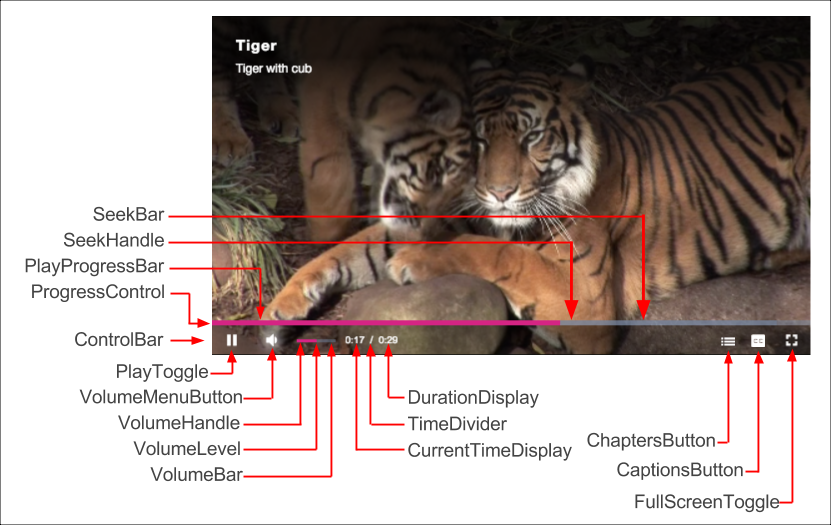
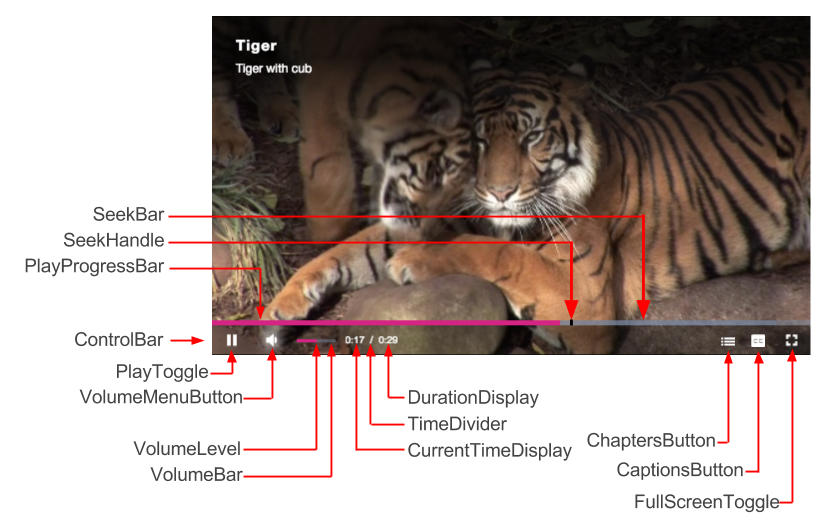
Update selectors and image maps in Customization doc

diff --git a/en/perform/brightcove-player/guides/customize-appearance.html b/en/perform/brightcove-player/guides/customize-appearance.html
@@ -260,19 +260,20 @@
         <area shape="rect" coords="69,17,169,42" href="javascript:BCLS.showSelector('DockTitle','onload')" alt="DockTitle" title=".vjs-dock-title">
         </map>
         <map name="5x-components">
-        <area shape="rect" coords="404,413,526,436" href="javascript:BCLS.showSelector('TimeDivider', 'play')" alt="TimeDivider" title=".video-js .vjs-time-divider">
-        <area shape="rect" coords="128,436,240,460" href="javascript:BCLS.showSelector('VolumeLevel', 'play')" alt="VolumeLevel" title=".video-js .vjs-volume-level">
-        <area shape="rect" coords="75,384,246,405" href="javascript:BCLS.showSelector('VolumeMenuButton', 'play')" alt="VolumeMenuButton" title=".video-js .vjs-volume-menu-button">
-        <area shape="rect" coords="146,461,242,487" href="javascript:BCLS.showSelector('VolumeBar', 'play')" alt="VolumeBar" title=".vjs-volume-bar.vjs-slider-bar.vjs-slider.vjs-slider-horizontal">
-        <area shape="rect" coords="405,386,542,410" href="javascript:BCLS.showSelector('DurationDisplay', 'play')" alt="DurationDisplay" title=".video-js .vjs-duration">
-        <area shape="rect" coords="402,437,575,465" href="javascript:BCLS.showSelector('CurrentTimeDisplay', 'play')" alt="CurrentTimeDisplay" title=".video-js .vjs-current-time">
-        <area shape="rect" coords="583,427,722,453" href="javascript:BCLS.showSelector('ChaptersButton', 'play')" alt="ChaptersButton" title=".video-js .vjs-chapters-button.vjs-menu-button">
-        <area shape="rect" coords="613,455,747,483" href="javascript:BCLS.showSelector('CaptionsButton', 'play')" alt="CaptionsButton" title=".video-js .vjs-captions-button.vjs-menu-button">
-        <area shape="rect" coords="628,488,785,515" href="javascript:BCLS.showSelector('FullScreenToggle', 'play')" alt="FullScreenToggle" title=".video-js .vjs-fullscreen-control.vjs-control">
-        <area shape="rect" coords="22,250,172,278" href="javascript:BCLS.showSelector('PlayProgressBar','play')" alt="PlayProgressBar" title=".video-js .vjs-play-progress.vjs-slider-ba">
-        <area shape="rect" coords="110,358,216,381" href="javascript:BCLS.showSelector('PlayToggle', 'play')" alt="PlayToggle" title=".video-js .vjs-play-control">
-        <area shape="rect" coords="87,201,169,226" href="javascript:BCLS.showSelector('SeekBar','play')" alt="SeekBar" title=".video-js .vjs-progress-control.vjs-control">
-        <area shape="rect" coords="67,325,212,353" href="javascript:BCLS.showSelector('ControlBar')" alt="ControlBar" title=".video-js .vjs-control-bar">
+        <area shape="rect" coords="396,398,510,420" href="javascript:BCLS.showSelector('TimeDivider', 'play')" alt="TimeDivider" title=".video-js .vjs-time-divider">
+        <area shape="rect" coords="128,421,240,444" href="javascript:BCLS.showSelector('VolumeLevel', 'play')" alt="VolumeLevel" title=".video-js .vjs-volume-level">
+        <area shape="rect" coords="75,374,246,395" href="javascript:BCLS.showSelector('VolumeMenuButton', 'play')" alt="VolumeMenuButton" title=".video-js .vjs-volume-menu-button">
+        <area shape="rect" coords="146,447,242,473" href="javascript:BCLS.showSelector('VolumeBar', 'play')" alt="VolumeBar" title=".vjs-volume-bar.vjs-slider-bar.vjs-slider.vjs-slider-horizontal">
+        <area shape="rect" coords="395,373,532,397" href="javascript:BCLS.showSelector('DurationDisplay', 'play')" alt="DurationDisplay" title=".video-js .vjs-duration">
+        <area shape="rect" coords="391,423,564,448" href="javascript:BCLS.showSelector('CurrentTimeDisplay', 'play')" alt="CurrentTimeDisplay" title=".video-js .vjs-current-time">
+        <area shape="rect" coords="569,412,708,438" href="javascript:BCLS.showSelector('ChaptersButton', 'play')" alt="ChaptersButton" title=".video-js .vjs-chapters-button.vjs-menu-button">
+        <area shape="rect" coords="595,442,729,469" href="javascript:BCLS.showSelector('CaptionsButton', 'play')" alt="CaptionsButton" title=".video-js .vjs-captions-button.vjs-menu-button">
+        <area shape="rect" coords="611,473,768,500" href="javascript:BCLS.showSelector('FullScreenToggle', 'play')" alt="FullScreenToggle" title=".video-js .vjs-fullscreen-control.vjs-control">
+        <area shape="rect" coords="22,243,172,271" href="javascript:BCLS.showSelector('PlayProgressBar','play')" alt="PlayProgressBar" title=".video-js .vjs-play-progress.vjs-slider-ba">
+        <area shape="rect" coords="110,348,216,371" href="javascript:BCLS.showSelector('PlayToggle', 'play')" alt="PlayToggle" title=".video-js .vjs-play-control">
+        <area shape="rect" coords="87,193,169,219" href="javascript:BCLS.showSelector('SeekBar','play')" alt="SeekBar" title=".video-js .vjs-progress-control.vjs-control">
+        <area shape="rect" coords="55,220,169,245" href="javascript:BCLS.showSelector('SeekHandle','play')" alt="SeekHandle" title=".video-js .vjs-control-bar .vjs-mouse-display">
+        <area shape="rect" coords="67,315,212,343" href="javascript:BCLS.showSelector('ControlBar','play')" alt="ControlBar" title=".video-js .vjs-control-bar">
         </map>
         <h3>Summary of component selectors</h3>
         <table class="table-styles">
@@ -408,6 +409,8 @@
                 ".video-js .vjs-duration",
                 "SeekBar":
                 ".video-js .vjs-progress-control.vjs-control",
+                "SeekHandle":
+                ".video-js .vjs-control-bar .vjs-mouse-display",
                 "PlayProgressBar":
                 ".video-js .vjs-play-progress.vjs-slider-bar",
                 "ChaptersButton":
@@ -424,6 +427,7 @@
                 ".vjs-dock-description"
             };
             showSelector = function (component, type) {
+console.log('type',type);
                 if (type === 'onload') {
                     onloadComponent.textContent = component;
                     onloadSelector.textContent = components[component];

diff --git a/en/video-cloud/brightcove-player/guides/customize-appearance.html b/en/video-cloud/brightcove-player/guides/customize-appearance.html
@@ -273,7 +273,7 @@
         <area shape="rect" coords="110,348,216,371" href="javascript:BCLS.showSelector('PlayToggle', 'play')" alt="PlayToggle" title=".video-js .vjs-play-control">
         <area shape="rect" coords="87,193,169,219" href="javascript:BCLS.showSelector('SeekBar','play')" alt="SeekBar" title=".video-js .vjs-progress-control.vjs-control">
         <area shape="rect" coords="55,220,169,245" href="javascript:BCLS.showSelector('SeekHandle','play')" alt="SeekHandle" title=".video-js .vjs-control-bar .vjs-mouse-display">
-        <area shape="rect" coords="67,315,212,343" href="javascript:BCLS.showSelector('ControlBar')" alt="ControlBar" title=".video-js .vjs-control-bar">
+        <area shape="rect" coords="67,315,212,343" href="javascript:BCLS.showSelector('ControlBar','play')" alt="ControlBar" title=".video-js .vjs-control-bar">
         </map>
         <h3>Summary of component selectors</h3>
         <table class="table-styles">
@@ -427,6 +427,7 @@
                 ".vjs-dock-description"
             };
             showSelector = function (component, type) {
+console.log('type',type);
                 if (type === 'onload') {
                     onloadComponent.textContent = component;
                     onloadSelector.textContent = components[component];
